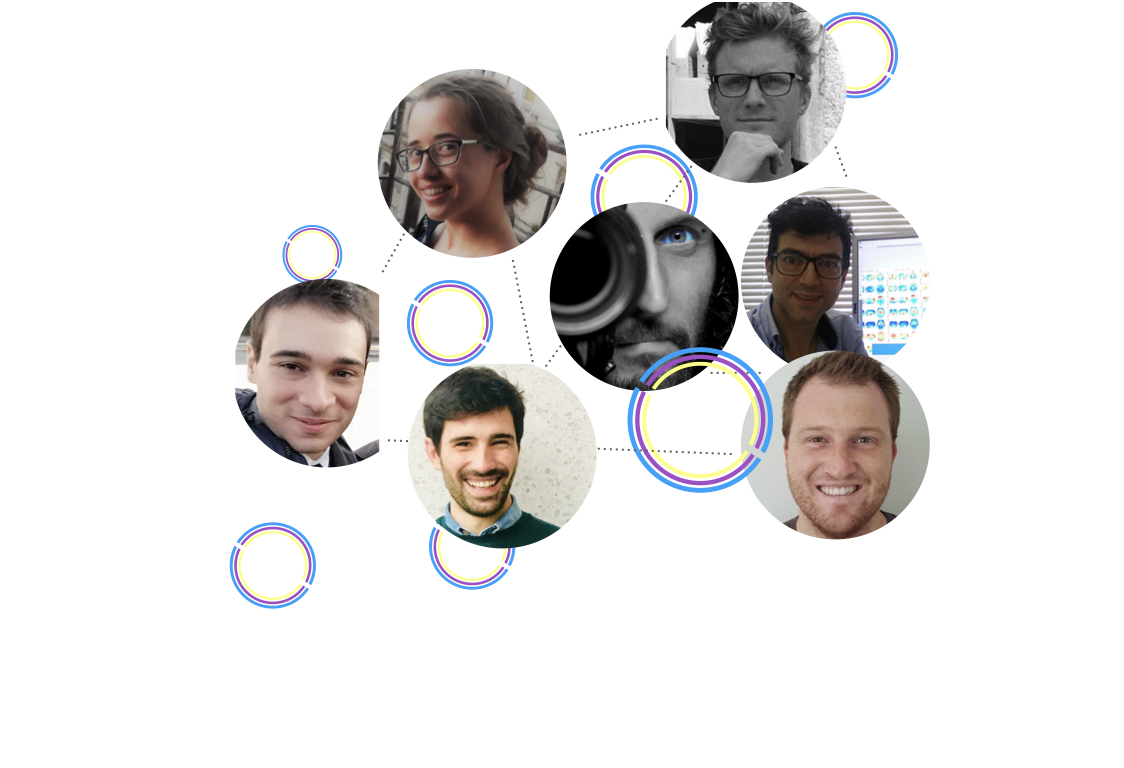
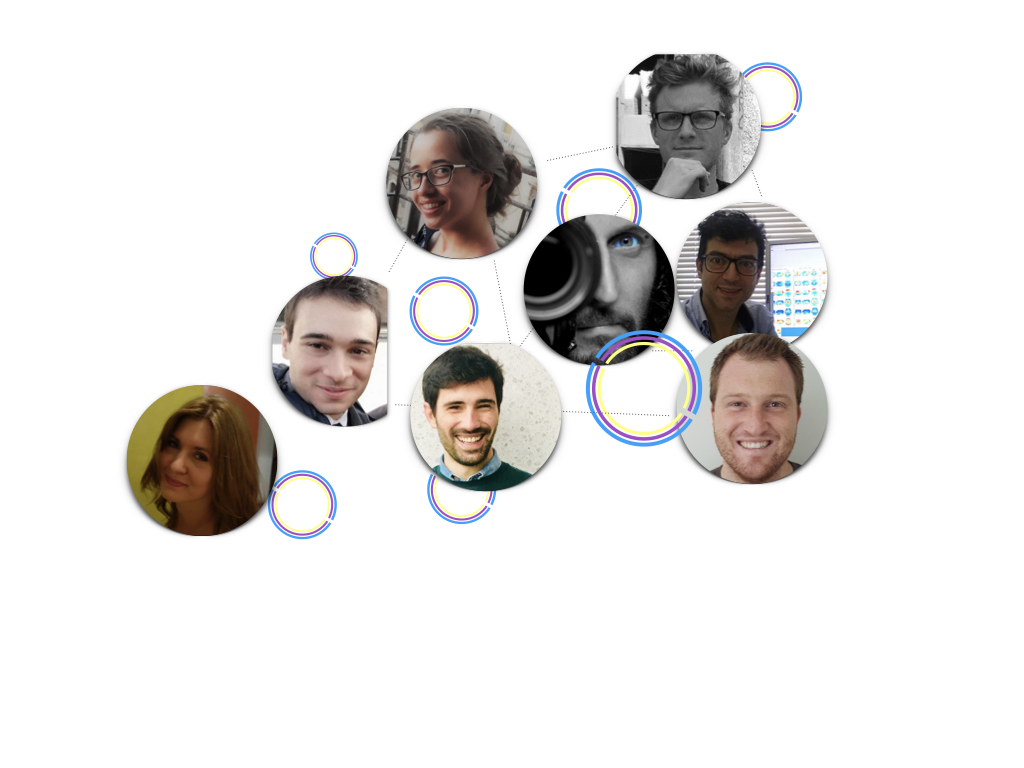
modifying team doodle - include Natalia

Changed region(s): [[0.0938, 0.0, 0.8438, 0.8125]]

diff --git a/index.md b/index.md
@@ -24,7 +24,7 @@ Also, don't forget to check out our hackathon sessions, where you can put your h
 
 ## <span style="color:#004777"> Who are we? </span>  
 
-<img style="float: right;" src="assets/ext_images/side-column-team.jpg" width="360" height="80"> 
+<img style="float: right;" src="assets/ext_images/side-column-team.jpg" width="390" height="80"> 
 
 We are a community of students, research faculty and professionals who want to create an open forum for people working in MRI research to learn about and discuss open science practices.
 
